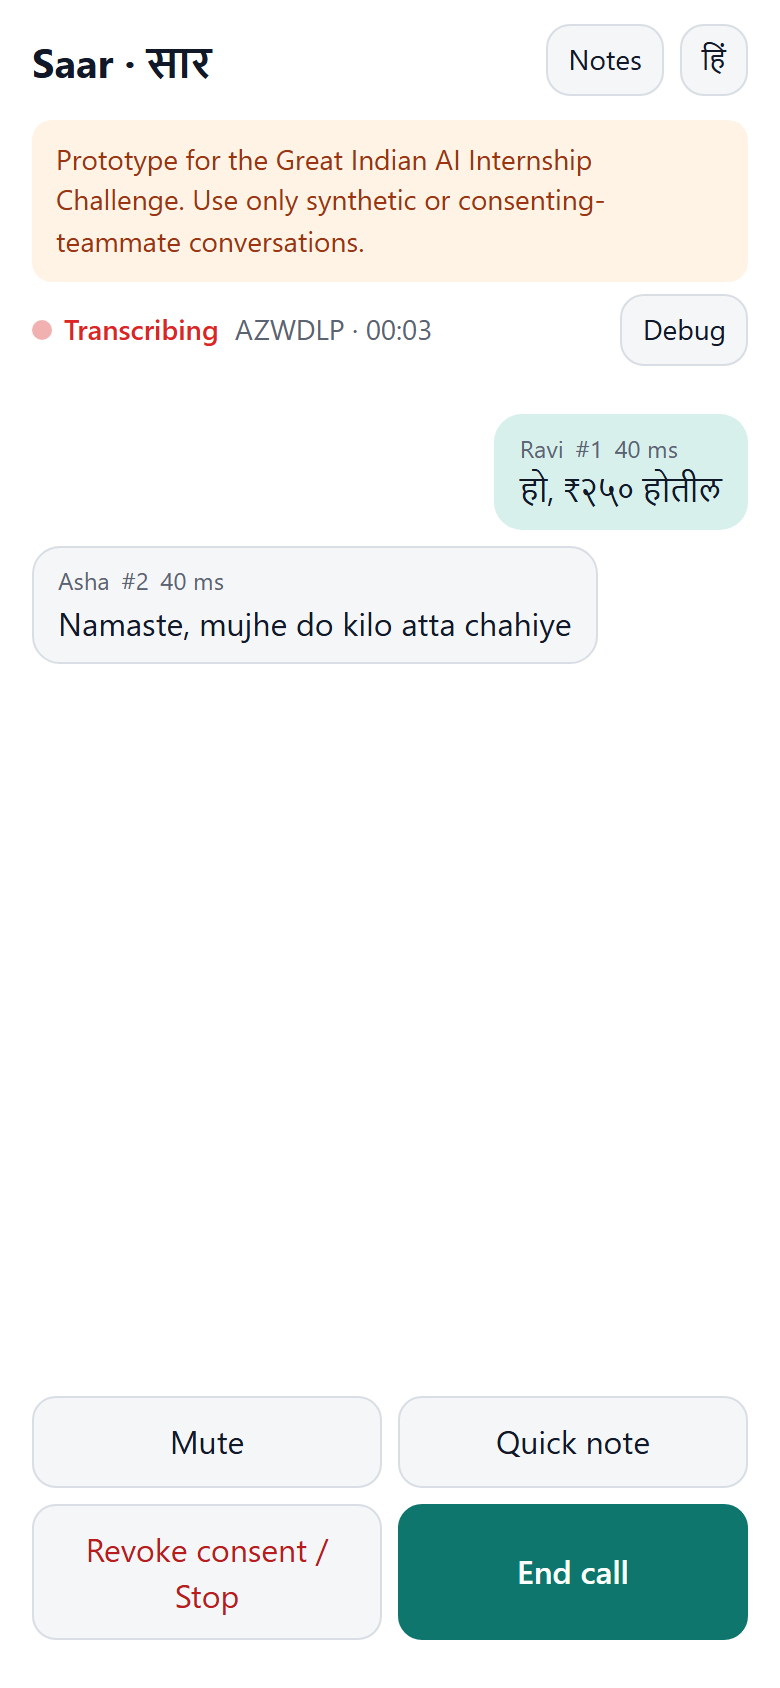
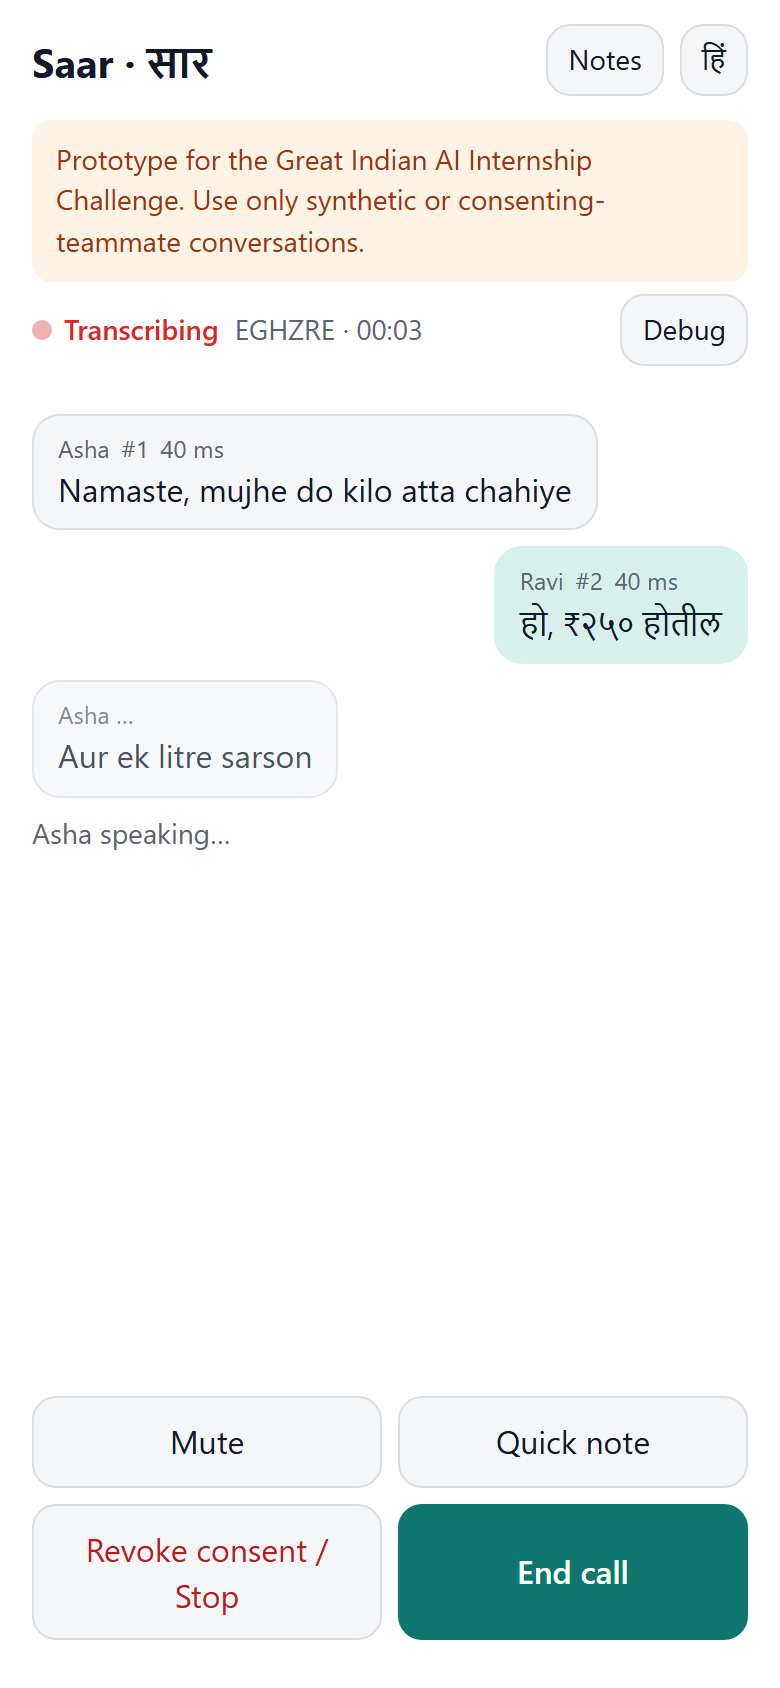
Phase 0 live: fix TTS WAV headers, handle speech_start/final_transcript, enable live partials, $0.20 LLM spend cap

diff --git a/frontend/src/pages/Room.tsx b/frontend/src/pages/Room.tsx
@@ -40,6 +40,7 @@ function Room({ code }: { code: string }) {
   const [segments, setSegments] = useState<Segment[]>([]);
   const [prov, setProv] = useState<Provisional[]>([]);
   const [speaking, setSpeaking] = useState<Record<string, number>>({});
+  const [partials, setPartials] = useState<Record<string, string>>({});
   const [upstream, setUpstream] = useState("");
   const [muted, setMuted] = useState(false);
   const [hidden, setHidden] = useState(document.visibilityState === "hidden");
@@ -104,9 +105,14 @@ function Room({ code }: { code: string }) {
       case "processing":
         setSpeaking((s) => ({ ...s, [m.participant_id]: Date.now() }));
         break;
+      case "partial":
+        setPartials((p) => ({ ...p, [m.participant_id]: m.text }));
+        setSpeaking((s) => ({ ...s, [m.participant_id]: Date.now() }));
+        break;
       case "segment":
         setSegments((s) => [...s.filter((x) => x.seq !== m.seq), m as Segment].sort((a, b) => a.seq - b.seq));
         setProv((p) => p.filter((x) => x.id !== m.upstream_segment_id));
+        setPartials((p) => ({ ...p, [m.participant_id]: "" }));
         setSpeaking((s) => ({ ...s, [m.participant_id]: 0 }));
         break;
       case "note_status":
@@ -188,8 +194,7 @@ function Room({ code }: { code: string }) {
         stats.current.gnani.push(m.latency_ms);
         if (stats.current.lastLoud) stats.current.eos.push(Date.now() - stats.current.lastLoud);
         setProv((p) => [...p, { id: m.upstream_segment_id, text: m.text, latency_ms: m.latency_ms }]);
-      } else if (m.type === "partial") {
-        setSpeaking((s) => ({ ...s, [me]: Date.now() }));
+        setPartials((p) => ({ ...p, [me]: "" }));
       } else if (m.type === "upstream_status") {
         setUpstream(m.state);
         if (m.state === "reconnecting") stats.current.reconnects++;
@@ -322,6 +327,12 @@ function Room({ code }: { code: string }) {
         <div key={p.id} className="bubble mine prov">
           <div className="who"><span>{nameOf(me)} ·</span><span>{p.latency_ms} ms</span></div>
           <div dir="auto">{p.text}</div>
+        </div>
+      ))}
+      {Object.entries(partials).filter(([, txt]) => txt).map(([pid, txt]) => (
+        <div key={`p-${pid}`} className={`bubble prov ${pid === me ? "mine" : ""}`} aria-hidden="true">
+          <div className="who"><span>{nameOf(pid)} …</span></div>
+          <div dir="auto">{txt}</div>
         </div>
       ))}
       {others.length > 0 && <p className="muted">{others.join(", ")} {t("speaking")}</p>}

diff --git a/backend/app/summarizer/providers/__init__.py b/backend/app/summarizer/providers/__init__.py
@@ -1,6 +1,8 @@
 """LLM providers. Each returns (note_dict, usage) where usage = {"input_tokens", "output_tokens"}."""
+import asyncio
 import json
 import re
+from pathlib import Path
 from typing import Any, Protocol
 
 import httpx
@@ -15,25 +17,61 @@ class LLMProvider(Protocol):
                             timeout_s: float) -> tuple[dict[str, Any], dict[str, int]]: ...
 
 
-class OpenAICompatProvider:
-    """Any OpenAI-compatible /chat/completions endpoint (DeepSeek by default) in JSON mode."""
+class BudgetExceeded(Exception):
+    pass
 
-    def __init__(self, base_url: str, api_key: str, model: str) -> None:
+
+class SpendLedger:
+    """Persistent USD spend counter. A call is refused unless its worst case (input + full max_tokens) fits."""
+
+    def __init__(self, path: str, budget_usd: float, price_in_per_m: float, price_out_per_m: float) -> None:
+        self.path, self.budget = Path(path), budget_usd
+        self.pin, self.pout = price_in_per_m / 1e6, price_out_per_m / 1e6
+
+    def spent(self) -> float:
+        try:
+            return float(json.loads(self.path.read_text())["usd"])
+        except (FileNotFoundError, ValueError, KeyError):
+            return 0.0
+
+    def check(self, est_in: int, max_out: int) -> None:
+        worst = est_in * self.pin + max_out * self.pout
+        if self.spent() + worst > self.budget:
+            raise BudgetExceeded(f"LLM budget ${self.budget:.2f} reached (spent ${self.spent():.4f})")
+
+    def record(self, tokens_in: int, tokens_out: int) -> None:
+        # shortcut: read-modify-write without a file lock; app and eval running at the same instant could
+        # under-count one call. Upgrade to a lock file if they ever run concurrently.
+        usd = self.spent() + tokens_in * self.pin + tokens_out * self.pout
+        self.path.parent.mkdir(parents=True, exist_ok=True)
+        self.path.write_text(json.dumps({"usd": round(usd, 6), "budget": self.budget}))
+
+
+class OpenAICompatProvider:
+    """Any OpenAI-compatible /chat/completions endpoint (DeepSeek by default) in JSON mode, behind a spend cap."""
+
+    def __init__(self, base_url: str, api_key: str, model: str, ledger: SpendLedger) -> None:
         self.base_url, self.api_key, self.model = base_url.rstrip("/"), api_key, model
+        self.ledger = ledger
+        self._lock = asyncio.Lock()  # serialize calls so concurrent checks can't overshoot the cap
 
     async def generate_note(self, system: str, user: str, *, max_tokens: int,
                             timeout_s: float) -> tuple[dict[str, Any], dict[str, int]]:
         body = {"model": self.model, "temperature": 0.1, "max_tokens": max_tokens,
                 "response_format": {"type": "json_object"},
                 "messages": [{"role": "system", "content": system}, {"role": "user", "content": user}]}
-        async with httpx.AsyncClient(timeout=timeout_s) as c:
-            r = await c.post(f"{self.base_url}/chat/completions", json=body,
-                             headers={"Authorization": f"Bearer {self.api_key}"})
+        est_in = (len(system) + len(user)) // 2 + 50  # generous: ~2 chars/token, Devanagari included
+        async with self._lock:
+            self.ledger.check(est_in, max_tokens)
+            async with httpx.AsyncClient(timeout=timeout_s) as c:
+                r = await c.post(f"{self.base_url}/chat/completions", json=body,
+                                 headers={"Authorization": f"Bearer {self.api_key}"})
+            u = (r.json().get("usage") if r.is_success else None) or {}
+            self.ledger.record(u.get("prompt_tokens", est_in if r.is_success else 0),
+                               u.get("completion_tokens", max_tokens if r.is_success else 0))
         r.raise_for_status()
-        data = r.json()
-        content = data["choices"][0]["message"]["content"] or ""
+        content = r.json()["choices"][0]["message"]["content"] or ""
         content = re.sub(r"^```(?:json)?\s*|\s*```$", "", content.strip())
-        u = data.get("usage") or {}
         return json.loads(content), {"input_tokens": u.get("prompt_tokens", 0),
                                      "output_tokens": u.get("completion_tokens", 0)}
 
@@ -74,5 +112,7 @@ def make_provider(s: Settings) -> LLMProvider:
     if s.llm_provider == "mock":
         return MockProvider()
     if s.llm_provider == "openai_compat":
-        return OpenAICompatProvider(s.openai_compat_base_url, s.openai_compat_api_key, s.llm_model)
+        return OpenAICompatProvider(s.openai_compat_base_url, s.openai_compat_api_key, s.llm_model,
+                                    SpendLedger(s.llm_ledger_path, s.llm_budget_usd, s.llm_price_in_per_m,
+                                                s.llm_price_out_per_m))
     raise ValueError(f"unsupported LLM_PROVIDER {s.llm_provider!r} (use openai_compat or mock)")

diff --git a/backend/scripts/fake_gnani_server.py b/backend/scripts/fake_gnani_server.py
@@ -60,6 +60,13 @@ class FakeGnani:
         for c in list(self._conns):
             await c.close(1011, "injected drop")
 
+    def _peek(self, lang: str, n: int) -> str:
+        q = self.scripts.get(lang) or self.scripts.get("default")
+        if q:
+            return q[0]
+        lines = DEMO_LINES.get(lang)
+        return lines[n % len(lines)] if lines else f"fake transcript {n}"
+
     def _text(self, lang: str, n: int) -> str:
         q = self.scripts.get(lang) or self.scripts.get("default")
         if q:
@@ -92,6 +99,7 @@ class FakeGnani:
         opened = time.monotonic()
         speech = silence = 0
         index = 0
+        partials = h.get("x-partials") == "true"
         try:
             while True:
                 timeout = None
@@ -122,8 +130,14 @@ class FakeGnani:
                 a = array("h", msg)
                 loud = sum(x * x for x in a) / len(a) > self.energy**2
                 if loud:
+                    if speech == 0:  # the live API announces speech onset (undocumented, seen 2026-10-28)
+                        await ws.send(json.dumps({"type": "speech_start", "timestamp": _ts()}))
                     speech += 1
                     silence = 0
+                    if partials and speech % 8 == 0:  # ~every 256 ms, a growing prefix of the line
+                        words = self._peek(h["lang_code"], index).split()
+                        await ws.send(json.dumps({"type": "partial_transcript", "timestamp": _ts(),
+                                                  "text": " ".join(words[: max(1, speech // 8)])}))
                 elif speech:
                     silence += 1
                     if silence >= silence_frames:
@@ -132,7 +146,7 @@ class FakeGnani:
                         await ws.send(json.dumps({"type": "processing", "timestamp": _ts()}))
                         await asyncio.sleep(self.latency_ms / 1000)
                         await ws.send(json.dumps({
-                            "type": "transcript", "timestamp": _ts(), "text": self._text(h["lang_code"], index),
+                            "type": "final_transcript" if partials else "transcript", "timestamp": _ts(), "text": self._text(h["lang_code"], index),
                             "audio_duration_ms": dur, "segment_id": str(uuid.uuid4()), "segment_index": index,
                             "latency": self.latency_ms}))
                         self.transcripts_sent += 1

diff --git a/backend/scripts/smoke.py b/backend/scripts/smoke.py
@@ -21,6 +21,7 @@ import websockets
 sys.path.insert(0, str(Path(__file__).resolve().parents[1]))
 from app.config import ROOT, get_settings  # noqa: E402
 from app.gnani.stt_client import FRAME_BYTES, build_headers  # noqa: E402
+from app.gnani.tts_client import synthesize  # noqa: E402
 from app.summarizer import prompts  # noqa: E402
 from app.summarizer.providers import make_provider  # noqa: E402
 from app.summarizer.schema import NoteContent, json_schema  # noqa: E402
@@ -44,14 +45,10 @@ async def tts() -> None:
     OUT.mkdir(parents=True, exist_ok=True)
     async with httpx.AsyncClient(timeout=60) as c:
         for name, (lang, voice, text) in SAMPLES.items():
-            r = await c.post(f"{S.gnani_base_url}/api/v1/tts/inference", headers={"X-API-Key-ID": S.gnani_api_key},
-                             json={"text": text, "voice": voice, "model": "timbre-v2.5", "language": lang,
-                                   "audio_config": {"sample_rate": 16000, "num_channels": 1, "sample_width": 2,
-                                                    "encoding": "linear_pcm", "container": "wav"}})
-            r.raise_for_status()
+            data = await synthesize(c, S, text, voice, lang)
             p = OUT / f"smoke_{name}.wav"
-            p.write_bytes(r.content)
-            with wave.open(io.BytesIO(r.content)) as w:
+            p.write_bytes(data)
+            with wave.open(io.BytesIO(data)) as w:
                 print(f"TTS {name}: {p.name} {w.getframerate()} Hz, {w.getnframes() / w.getframerate():.1f} s")
 
 
@@ -129,6 +126,7 @@ async def llm() -> None:
 
 
 if __name__ == "__main__":
+    sys.stdout.reconfigure(encoding="utf-8")  # Windows console: print Devanagari
     cmd = sys.argv[1] if len(sys.argv) > 1 else "all"
     steps = {"tts": tts, "rest": rest, "ws": ws, "probe": probe, "llm": llm}
     for name in (steps if cmd == "all" else [cmd]):

diff --git a/backend/app/gnani/stt_client.py b/backend/app/gnani/stt_client.py
@@ -200,13 +200,16 @@ class GnaniStream:
                 if isinstance(raw, bytes):
                     continue
                 msg = json.loads(raw)
-                if msg.get("type") == "processing":
-                    self.pending[ws] = self.pending.get(ws, 0) + 1
-                    # past the hard deadline: switch right at this end-of-speech so no utterance is split
+                kind = msg.get("type")
+                if kind == "final_transcript":  # with x-partials on, finals arrive under this name
+                    msg["type"] = kind = "transcript"
+                if kind in ("speech_start", "processing"):
+                    self.pending[ws] = 1  # segment open (live API sends speech_start; docs describe processing)
+                elif kind == "transcript":
+                    self.pending[ws] = 0
+                    # past the hard deadline: switch right after an utterance closes so none is split
                     if ws is self.ws and time.monotonic() - self.opened_at >= self.hard_rotate_s:
                         self._spawn(self.rotate())
-                elif msg.get("type") == "transcript":
-                    self.pending[ws] = max(0, self.pending.get(ws, 0) - 1)
                 await self.on_event(msg)
         except websockets.ConnectionClosed:
             pass

diff --git a/eval/make_audio.py b/eval/make_audio.py
@@ -6,16 +6,9 @@ import asyncio
 
 import httpx
 
-from common import AUDIO, SR, S, clip_path, dialogues
+from common import AUDIO, S, clip_path, dialogues
 
-
-async def synth(c: httpx.AsyncClient, text: str, voice: str, lang: str) -> bytes:
-    r = await c.post(f"{S.gnani_base_url}/api/v1/tts/inference", headers={"X-API-Key-ID": S.gnani_api_key},
-                     json={"text": text, "voice": voice, "model": "timbre-v2.5", "language": lang,
-                           "audio_config": {"sample_rate": SR, "num_channels": 1, "sample_width": 2,
-                                            "encoding": "linear_pcm", "container": "wav"}})
-    r.raise_for_status()
-    return r.content
+from app.gnani.tts_client import synthesize  # noqa: E402
 
 
 async def main() -> None:
@@ -27,7 +20,7 @@ async def main() -> None:
                 return
             spk = d["speakers"][turn["speaker"]]
             async with sem:
-                data = await synth(c, turn["text"], spk["voice"], spk["tts_lang"])
+                data = await synthesize(c, S, turn["text"], spk["voice"], spk["tts_lang"])
             p.parent.mkdir(parents=True, exist_ok=True)
             p.write_bytes(data)
             print("tts", p.relative_to(AUDIO))

diff --git a/backend/tests/test_unit.py b/backend/tests/test_unit.py
@@ -313,3 +313,20 @@ def test_redaction() -> None:
     rec = logging.LogRecord("t", logging.INFO, "", 0, "connect", None, None)
     rec.data = {"headers": {"x-api-key-id": "k3y"}}
     assert "k3y" not in JsonFormatter().format(rec)
+
+
+# ---------------- LLM spend cap ----------------
+
+
+async def test_llm_budget_refuses_before_any_request(tmp_path: "__import__('pathlib').Path") -> None:
+    from app.summarizer.providers import BudgetExceeded, OpenAICompatProvider, SpendLedger
+
+    ledger = SpendLedger(str(tmp_path / "spend.json"), 0.20, 0.60, 2.20)
+    ledger.record(100_000, 50_000)  # 0.06 + 0.11 = $0.17
+    assert abs(ledger.spent() - 0.17) < 1e-9
+    # worst case of one more call (1,500 output tokens = $0.0033 + input) would exceed $0.20 only near the cap
+    ledger.record(0, 13_000)  # +$0.0286 -> $0.1986
+    p = OpenAICompatProvider("http://127.0.0.1:9", "k", "m", ledger)  # port 9: any request would fail loudly
+    with pytest.raises(BudgetExceeded):
+        await p.generate_note("s" * 2000, "u", max_tokens=1500, timeout_s=1)
+    assert abs(ledger.spent() - 0.1986) < 1e-9  # refused call cost nothing

diff --git a/backend/app/gnani/tts_client.py b/backend/app/gnani/tts_client.py
@@ -1,0 +1,25 @@
+"""Gnani Timbre TTS REST helper (used by smoke tests and the eval harness)."""
+import struct
+
+import httpx
+
+from ..config import Settings
+
+
+def fix_wav_header(b: bytes) -> bytes:
+    """Gnani returns streaming-style WAVs (RIFF/data sizes 0xFFFFFFFF); rewrite them from the real length."""
+    i = b.find(b"data")
+    if i < 0:
+        return b
+    n = len(b) - i - 8
+    return b[:4] + struct.pack("<I", len(b) - 8) + b[8:i + 4] + struct.pack("<I", n) + b[i + 8:]
+
+
+async def synthesize(c: httpx.AsyncClient, s: Settings, text: str, voice: str, lang: str,
+                     sample_rate: int = 16000) -> bytes:
+    r = await c.post(f"{s.gnani_base_url}/api/v1/tts/inference", headers={"X-API-Key-ID": s.gnani_api_key},
+                     json={"text": text, "voice": voice, "model": "timbre-v2.5", "language": lang,
+                           "audio_config": {"sample_rate": sample_rate, "num_channels": 1, "sample_width": 2,
+                                            "encoding": "linear_pcm", "container": "wav"}})
+    r.raise_for_status()
+    return fix_wav_header(r.content)

diff --git a/backend/app/config.py b/backend/app/config.py
@@ -30,7 +30,7 @@ class Settings(BaseSettings):
     stt_min_segment_ms: int = 120
     stt_max_speech_s: float | None = None
     stt_format_default: str = "transcribe"
-    stt_partials: bool = False
+    stt_partials: bool = True  # verified live 2026-10-28: partial_transcript + final_transcript
     max_stt_seconds_per_room: float = 1800
     gnani_ws_url_override: str = ""
 
@@ -43,6 +43,12 @@ class Settings(BaseSettings):
     llm_model: str = "deepseek-chat"
     openai_compat_base_url: str = "https://api.deepseek.com"
     openai_compat_api_key: str = ""
+    # Hard spend cap across app + smoke + eval (ledger in data/llm_spend.json). Prices deliberately above
+    # DeepSeek's list prices so the estimate can only over-count.
+    llm_budget_usd: float = 0.20
+    llm_price_in_per_m: float = 0.60
+    llm_price_out_per_m: float = 2.20
+    llm_ledger_path: str = str(ROOT / "data" / "llm_spend.json")
     max_transcript_chars: int = 60000
     note_max_tokens: int = 1500
 

diff --git a/backend/app/summarizer/service.py b/backend/app/summarizer/service.py
@@ -12,7 +12,7 @@ from ..db import session
 from ..models import Note, Participant, Room, Segment, Usage
 from ..ws.room_hub import get_hub
 from . import faithfulness, prompts
-from .providers import LLMProvider, make_provider
+from .providers import BudgetExceeded, LLMProvider, make_provider
 from .schema import NoteContent, json_schema
 
 log = logging.getLogger("saar.notes")
@@ -92,6 +92,9 @@ async def _generate(note_id: str, room: Room) -> None:
             raw, u = await p.generate_note(system, user, max_tokens=st.note_max_tokens, timeout_s=60)
             tokens = {k: tokens[k] + u.get(k, 0) for k in tokens}
             content = NoteContent.model_validate(raw)
+            break
+        except BudgetExceeded:
+            err = "The note budget for this prototype is used up; the transcript is kept."
             break
         except ValidationError as e:
             err = "The note did not match the expected format."

diff --git a/backend/tests/test_integration.py b/backend/tests/test_integration.py
@@ -114,6 +114,10 @@ async def test_two_speakers_ordered_captions_and_notes(server: str, fake: FakeGn
             assert segs[1]["text"] == "हो, ₹२५० होतील"
             assert not any(s["possible_echo"] for s in segs)
         assert [m["text"] for m in got_a if m["type"] == "transcript"][0].startswith("Namaste")
+        # live word-by-word partials reach both phones; finals arrive as final_transcript upstream
+        assert any(e["participant_id"] == guest["participant_id"] for e in la.of("partial"))
+        assert any(e["participant_id"] == host["participant_id"] for e in lb.of("partial"))
+        assert fake.headers_seen[0].get("x-partials") == "true"
         # headers reached the upstream exactly as specified
         assert {h["lang_code"] for h in fake.headers_seen} == {"en-IN", "mr-IN"}
         assert fake.bad_frames == 0

diff --git a/backend/app/ws/stt_proxy.py b/backend/app/ws/stt_proxy.py
@@ -51,13 +51,13 @@ class SttSession:
 
     async def _on_event(self, msg: dict[str, Any]) -> None:
         kind = msg.get("type")
-        if kind == "processing":
+        if kind in ("processing", "speech_start"):  # both drive the "…speaking" indicator
             await self._send({"type": "processing"})
             await self.hub.broadcast({"type": "processing", "participant_id": self.p.id})
         elif kind in ("transcript", "partial_transcript"):
             text = (msg.get("text") or "").strip()
             if kind == "partial_transcript":
-                await self._send({"type": "partial", "text": text})
+                await self.hub.broadcast({"type": "partial", "participant_id": self.p.id, "text": text})
                 return
             if not text:
                 return
